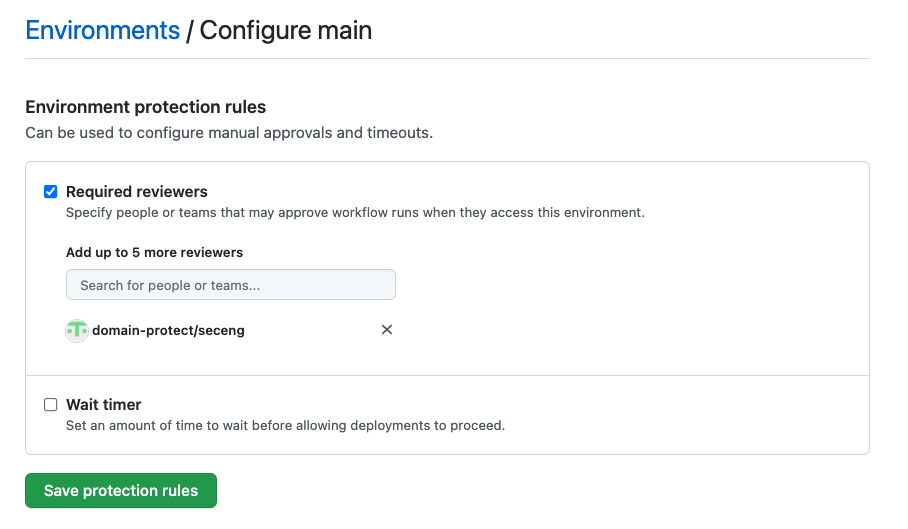
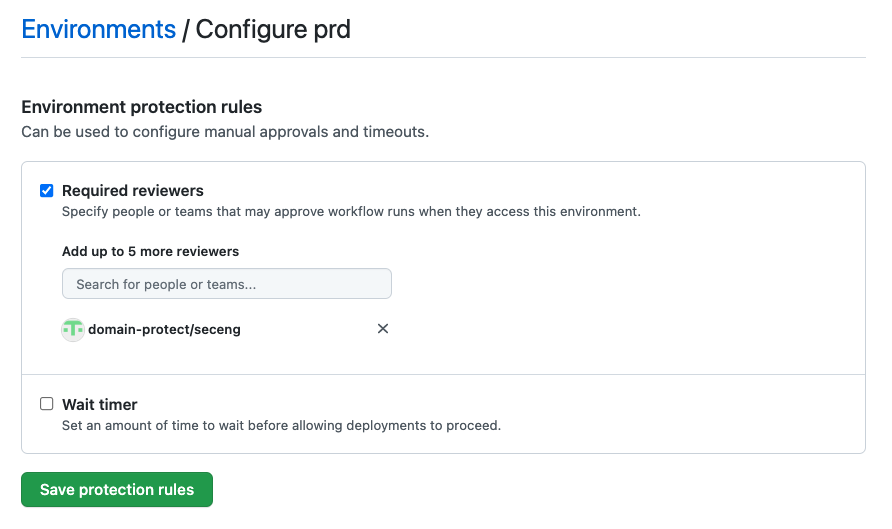
terraform plan_prd

diff --git a/docs/REPO.md b/docs/REPO.md
@@ -10,9 +10,8 @@ git push origin main
 ## Set up GitHub Actions environment
 * a GitHub Actions environment is needed for manual approval steps
 * within the GitHub repository web console, select Settings, Code and automation, Environments
-* create a new environment `main`
+* create a new environment `prd`
 <img src="images/actions-environment.png" width="500">
-* select the newly created environment
 * configure Environment protect rules
 * select Required reviewers
 * enter an appropriate team

diff --git a/README.md b/README.md
@@ -2,6 +2,6 @@
 Deploy Domain Protect using GitHub Actions
 
 ## how to set up
-* [Create deployment IAM policy](POLICY.md)
-* [Create OpenID Connect IAM role](OIDC.md)
-* [Create and configure repository](OIDC.md)
+* [Create deployment IAM policy](docs/POLICY.md)
+* [Create OpenID Connect IAM role](docs/OIDC.md)
+* [Create and configure repository](docs/OIDC.md)
